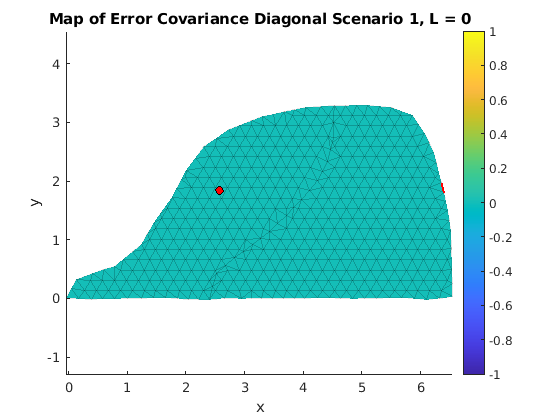
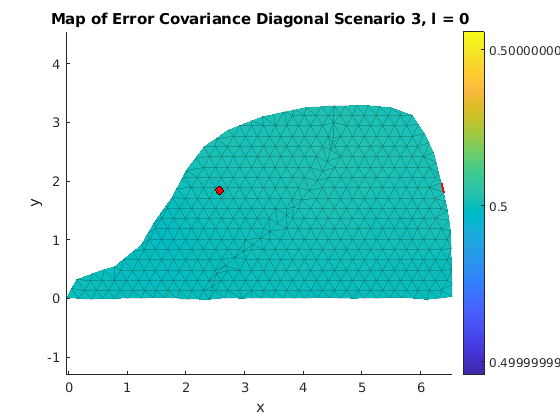
Last upload

diff --git a/hw6/FEM_patch.m b/hw6/FEM_patch.m
@@ -1,0 +1,18 @@
+function fig = FEM_patch(elements, nodes, u, plot_title, cmap)
+fig = figure;
+if nargin < 4
+	plot_title = "Contour Plot";
+end
+
+if nargin < 5
+	cmap = colormap(parula(10));
+end
+patch("Faces", elements, "Vertices", [nodes, u], "FaceVertexCData", u, 'FaceColor', 'interp', 'EdgeAlpha', 0.1);
+colorbar;
+colormap(cmap);
+title(plot_title);
+xlabel("x");
+ylabel("y");
+axis equal
+fig.Name = plot_title;
+end
